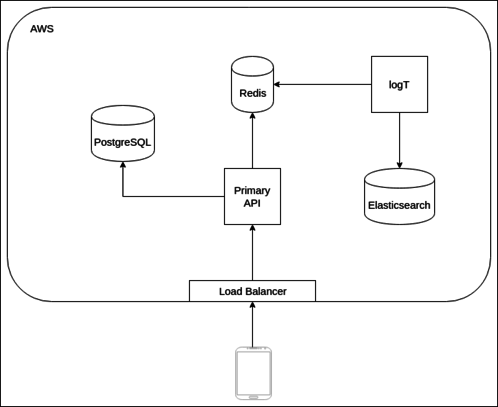
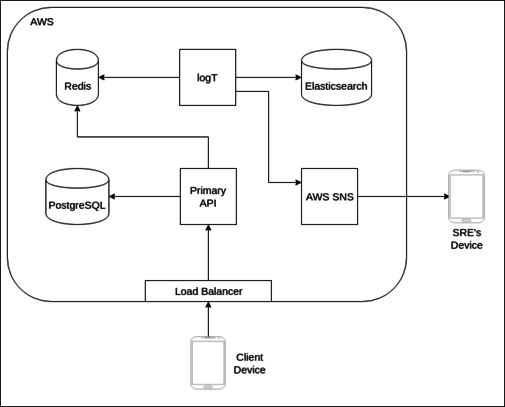
Document log alerts and their place in the system model

diff --git a/README.md b/README.md
@@ -22,9 +22,12 @@ the system data. In addition to typical SQL queries, postgres also handles full-
 for notes.
 
 While handling a request, the API will generate logs with standard severity levels. These
-logs are published to Redis channels and then picked up by logT. The log service currently
-forwards all data to an Elasticsearch instance, but the plan is to additionally send critical
-logs by email or SMS to an operator.
+logs are published to Redis channels and then picked up by logT. At that point, logs can
+go to two places:
+- Elasticsearch
+    - All logs will end up here.
+- The email inbox of a developer
+    - All (but hopefully zero) error logs end up here.
 
 ### CI/CD
 Jenkins performs integration and deployment for the API. A multibranch pipeline
@@ -54,3 +57,5 @@ Everything is AWS. Here's a nice list:
     - Houses Elasticsearch but also a pretty sweet Kibana instance
 - ElastiCache
     - Vehemently guards Redis
+- SNS
+    - Sends email alerts containing log data
